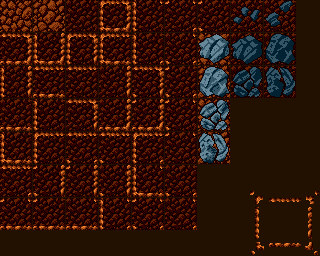
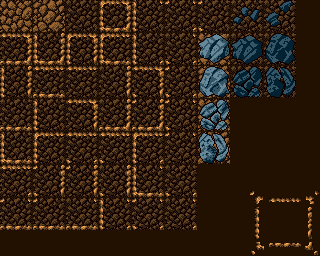
added bone gfx, fixed layer palette swap

diff --git a/src/ground_layer.c b/src/ground_layer.c
@@ -36,7 +36,7 @@ static const tGroundLayer s_pLayers[LAYER_COUNT] = {
 			RGB(51, 34, 0), RGB(102, 68, 0), RGB(153, 102, 17),
 			RGB(204, 136, 34), RGB(255, 170, 51)
 		},
-		1024 + 32, 0
+		2048 + 32, 0
 	},
 	{
 		// B
@@ -44,7 +44,7 @@ static const tGroundLayer s_pLayers[LAYER_COUNT] = {
 			RGB(51, 34, 17), RGB(102, 68, 34), RGB(153, 102, 51),
 			RGB(204, 136, 68), RGB(255, 170, 85)
 		},
-		1536 + 32, 0
+		4096 + 32, 0
 	},
 	{
 		// C
@@ -52,7 +52,7 @@ static const tGroundLayer s_pLayers[LAYER_COUNT] = {
 			RGB(17, 34, 17), RGB(68, 68, 34), RGB(119, 102, 51),
 			RGB(170, 136, 68), RGB(221, 170, 85)
 		},
-		2048 + 32, 0
+		6144 + 32, 0
 	},
 	{
 		// D
@@ -60,7 +60,7 @@ static const tGroundLayer s_pLayers[LAYER_COUNT] = {
 			RGB(17, 34, 34), RGB(68, 68, 51), RGB(119, 102, 68),
 			RGB(170, 136, 85), RGB(221, 170, 102)
 		},
-		2560 + 32, 0
+		8192 + 32, 0
 	}
 };
 

diff --git a/src/game.c b/src/game.c
@@ -30,6 +30,7 @@ static tVPort *s_pVpMain;
 tTileBufferManager *g_pMainBuffer;
 
 static tBitMap *s_pTiles;
+static tBitMap *s_pBones, *s_pBonesMask;
 static UBYTE s_isDebug = 0;
 static UWORD s_uwColorBg;
 static UBYTE s_ubChallengeCamCnt;
@@ -62,6 +63,8 @@ void gameGsCreate(void) {
 	g_pFont = fontCreate("data/uni54.fnt");
 	textBobManagerCreate(g_pFont);
 	s_pTiles = bitmapCreateFromFile("data/tiles.bm", 0);
+	s_pBones = bitmapCreateFromFile("data/bones.bm", 0);
+	s_pBonesMask = bitmapCreateFromFile("data/bones_mask.bm", 0);
 	hudCreate(s_pView, g_pFont);
 
 	s_pVpMain = vPortCreate(0,
@@ -254,6 +257,8 @@ void gameGsDestroy(void) {
 
 	menuUnload();
 	bitmapDestroy(s_pTiles);
+	bitmapDestroy(s_pBones);
+	bitmapDestroy(s_pBonesMask);
 	baseTileDestroy();
 	textBobManagerDestroy();
 	fontDestroy(g_pFont);
